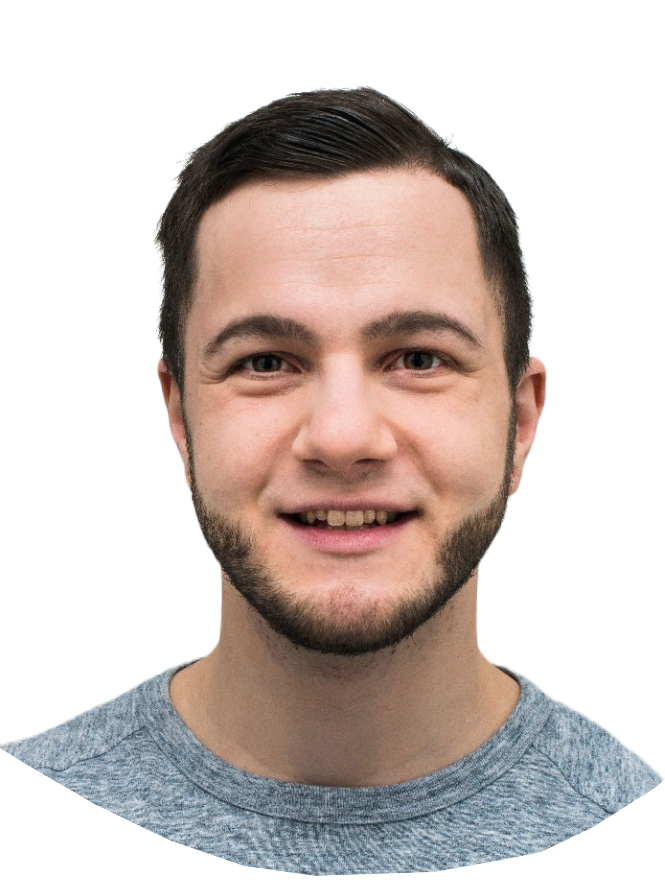
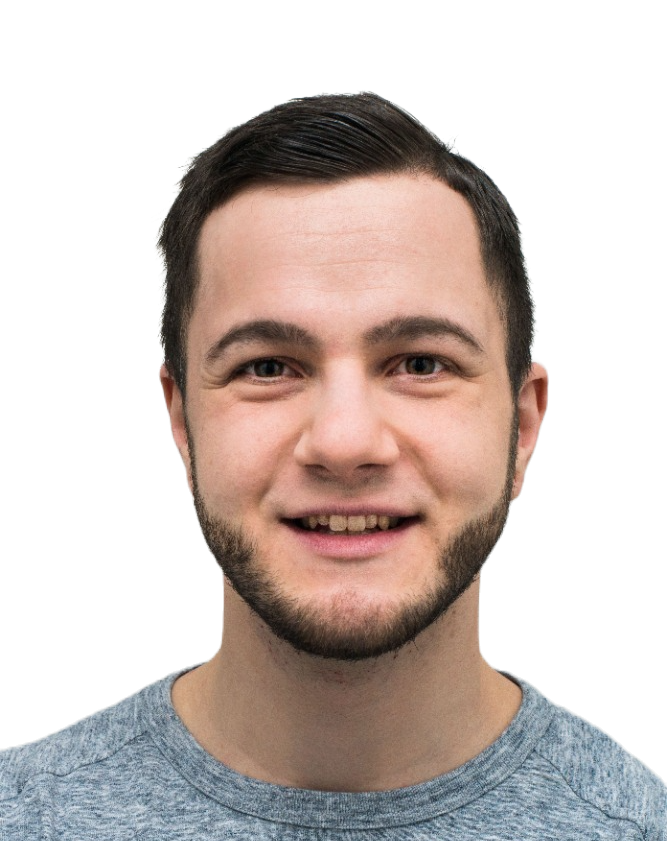
added my face img to green circle

diff --git a/src/app/about-me/about-me.component.scss b/src/app/about-me/about-me.component.scss
@@ -50,6 +50,14 @@
         border-radius: 50%;
     }
 
+    .imgFace {
+        position: absolute;
+        height: 453px;
+        width: 453px;
+        object-fit: contain;
+        border-radius: 50%;
+    }
+
     .greenLine {
         width: 260px;
         border: 4px solid #70E61C;

diff --git a/src/app/about-me/about-me.component.html b/src/app/about-me/about-me.component.html
@@ -28,7 +28,7 @@
     </div>
 
     <div class="zIndex-1 profileImageContainer ">
-        <!-- <img src="assets/img/shawnFace3.png"> -->
+        <img class="imgFace" src="assets/img/shawnFace2.png">
         <div class="greenLine">
 
         </div>
